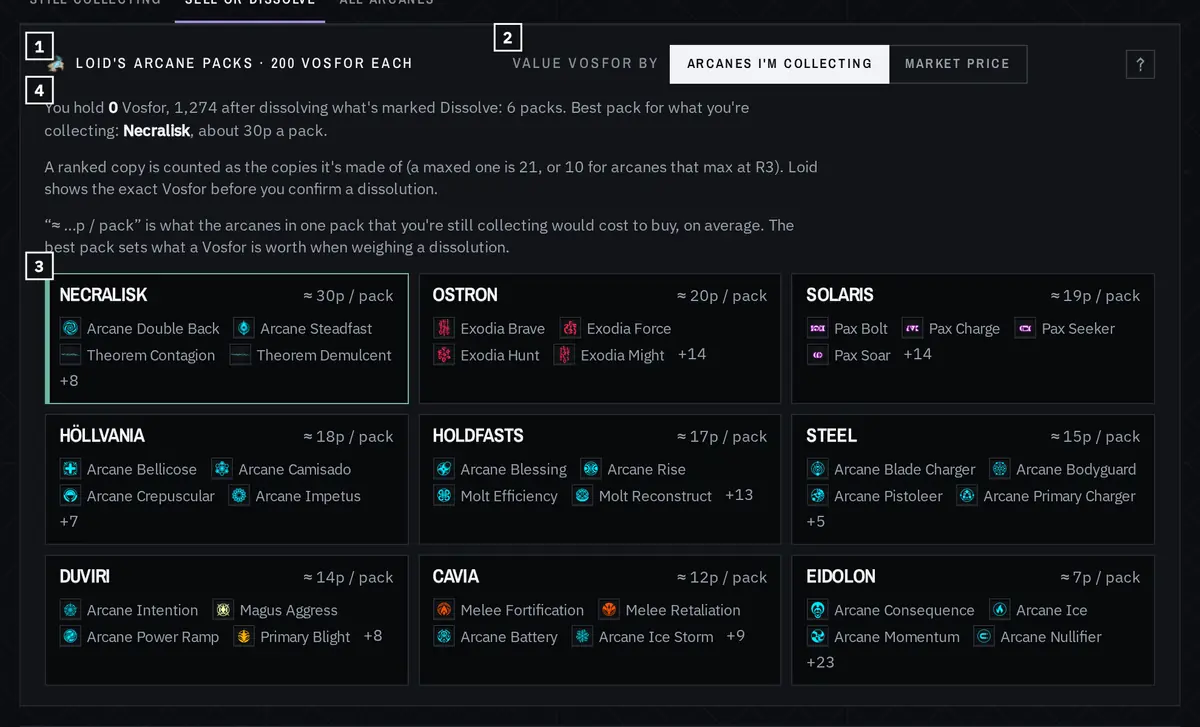
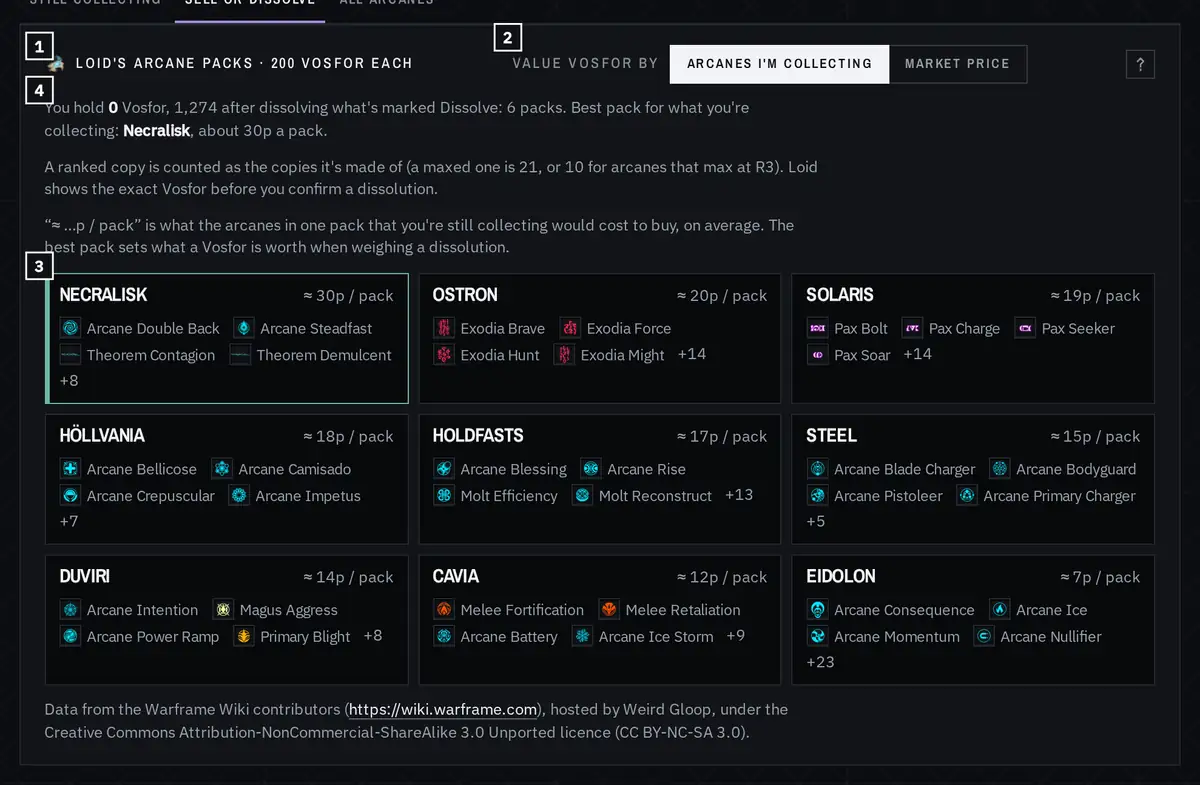
About and the wiki's credit: file names and the address in their own case
The link style sets text in capitals; the notice files' names and the wiki's
address are shown as they are written (NOTICE.md, https://wiki.warframe.com).
The help picture of Loid's packs on Arcanes (arcanes-5) taken again: it now
shows the credit at the foot of the section.

Changed region(s): [[0.0, 0.0, 0.9558, 0.9381], [0.0308, 0.9986, 0.9867, 1.0], [0.925, 0.0605, 0.9558, 0.0908]]

diff --git a/src/lib/SettingsSheet.svelte b/src/lib/SettingsSheet.svelte
@@ -465,6 +465,8 @@
   .about { display: grid; gap: .5rem; }
   .about p, .about .sub { margin: 0; }
   .about .files { flex-wrap: wrap; gap: .4rem 1.2rem; }
+  /* The files by their own names, in their own case (NOTICE.md, not NOTICE.MD). */
+  .about .files .link { text-transform: none; letter-spacing: .04em; font-family: var(--face-figures); }
   .offer-in { display: grid; gap: .7rem; padding: .9rem 1rem; background: var(--raised); border: 1px solid var(--gold-dim); box-shadow: inset 3px 0 0 var(--gold); }
   .offer-in p { margin: 0; }
   .notes { margin: 0; padding-left: 1.1rem; display: grid; gap: .2rem; font-size: .8rem; color: var(--platinum-dim); }

diff --git a/src/lib/ui/WikiCredit.svelte b/src/lib/ui/WikiCredit.svelte
@@ -11,5 +11,5 @@
 
 <style>
   /* The address in the sentence's own size, so the line reads as one. */
-  .wiki-credit .link { font: inherit; letter-spacing: 0; min-height: 0; }
+  .wiki-credit .link { font: inherit; letter-spacing: 0; text-transform: none; min-height: 0; }
 </style>
